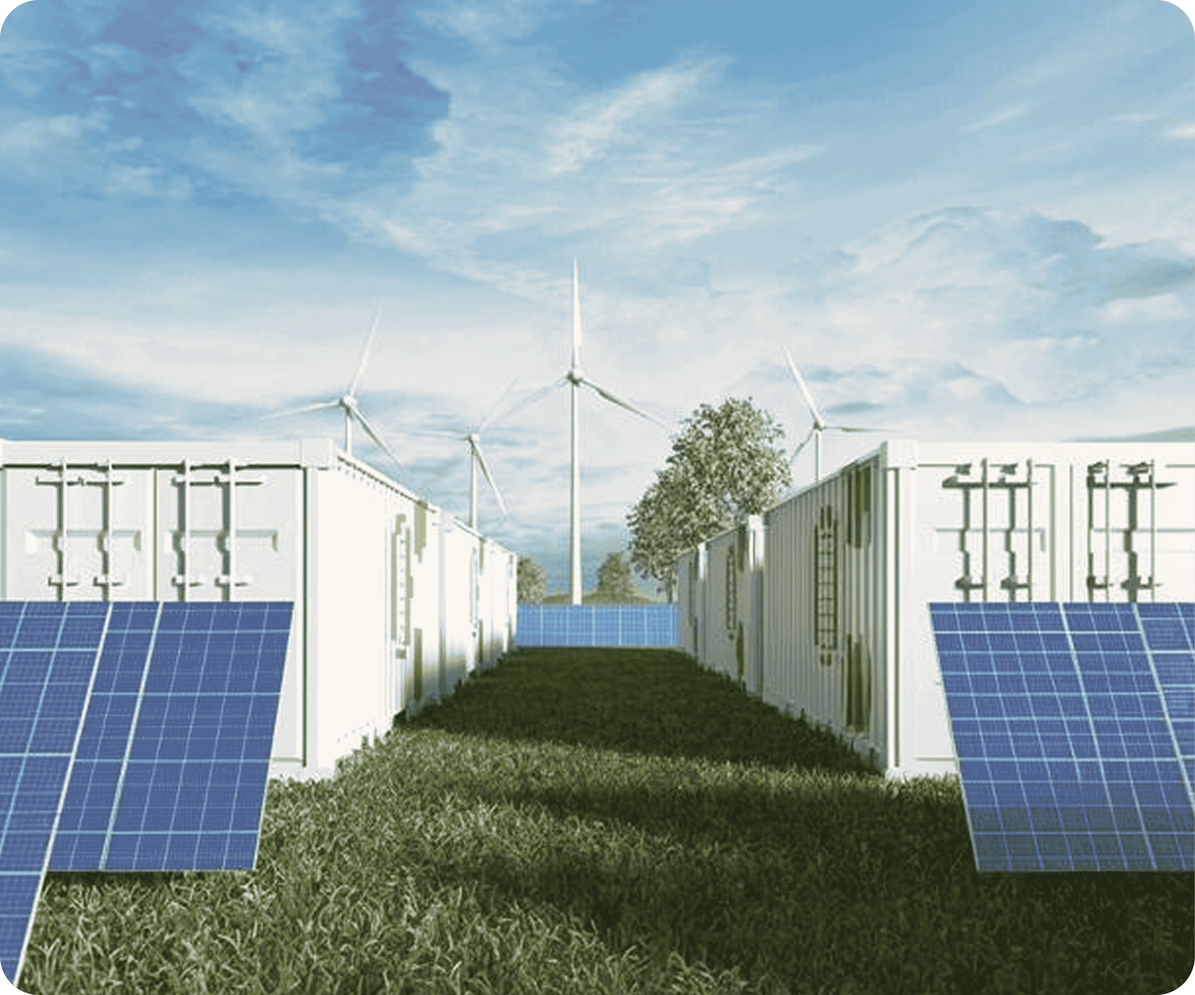
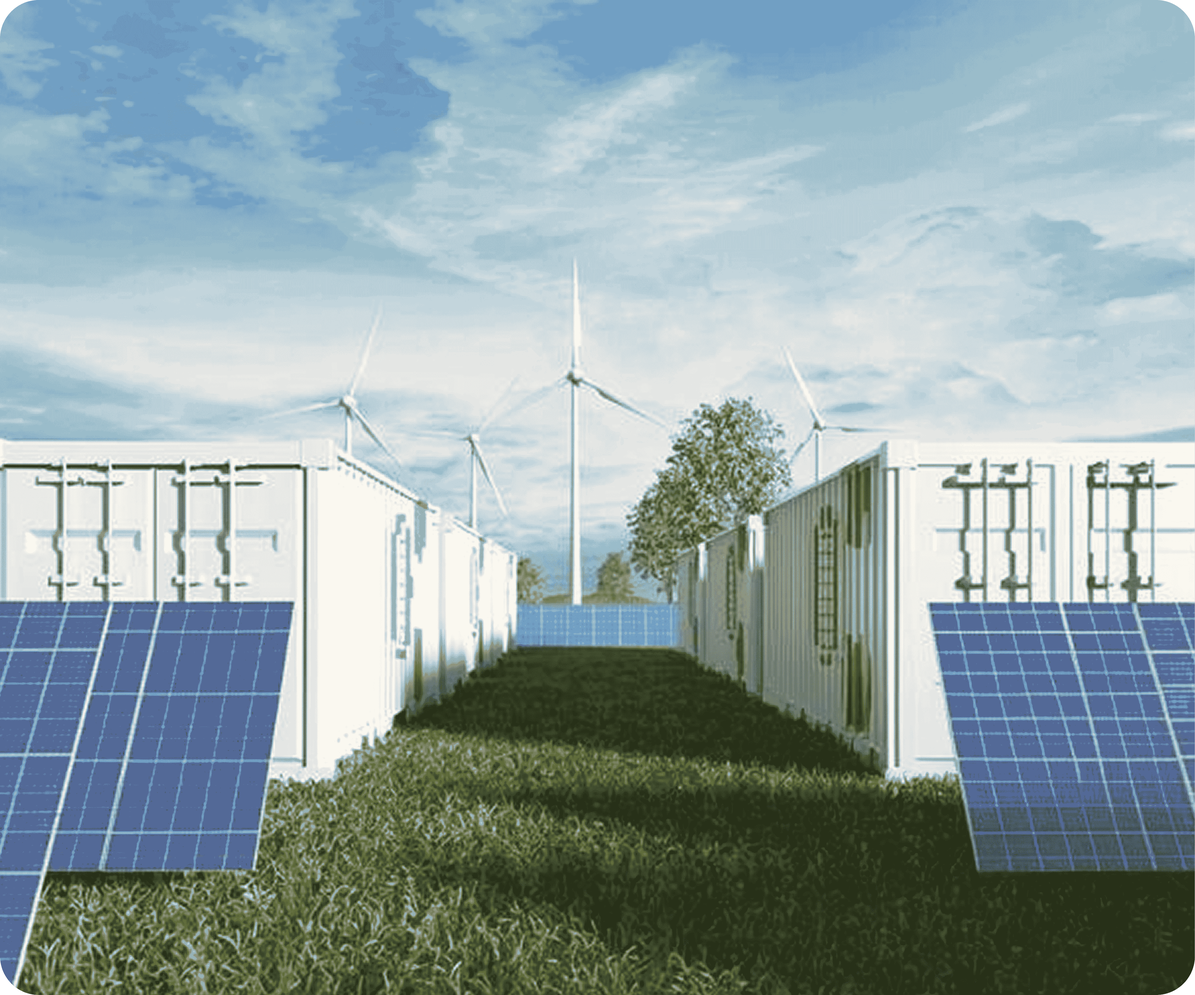
Enhance GetStarted form with additional subject and message fields; add solar-container image and update energy-storage image

diff --git a/src/pages/GetStarted.tsx b/src/pages/GetStarted.tsx
@@ -26,10 +26,13 @@ const GetStarted = () => {
     facilityType: '',
     sourcesCount: '',
     sourcesOfEnergy: '',
-    averageCost: ''
+    averageCost: '',
+    subject: '',
+    message: ''
   })
   const [isSubmitting, setIsSubmitting] = useState(false)
   const [showSuccessDialog, setShowSuccessDialog] = useState(false)
+  const [successMessage, setSuccessMessage] = useState<string>('')
   const [error, setError] = useState<string | null>(null)
 
   const applications = [
@@ -60,33 +63,60 @@ const GetStarted = () => {
     if (error) setError(null)
   }
 
-  const mapUseCase = (application: string): string => {
-    if (application === 'Single Site') return 'single_site'
-    if (application === 'Multi Site') return 'multi_site'
-    return application.toLowerCase().replace(' ', '_')
-  }
-
   const handleSubmit = async (e: React.FormEvent) => {
     e.preventDefault()
     setError(null)
     setIsSubmitting(true)
 
     try {
-      // Map form data to API payload structure
-      const payload = {
-        name: formData.name.trim(),
-        email: formData.email.trim(),
-        phone_number: formData.phone.trim(),
-        location: formData.location.trim(),
-        use_case: mapUseCase(formData.application),
-        facility_type: formData.facilityType,
-        no_of_sources: formData.sourcesCount.trim() || "1",
-        sources_of_energy: formData.sourcesOfEnergy,
-        avg_energy_cost: formData.averageCost.replace(/[₦,]/g, '').trim(),
+      // Generate subject from application type
+      const subject = formData.application
+        ? `Inquiry about ${formData.application} ${formData.facilityType} Setup`
+        : 'Inquiry about services'
+
+      // Generate message from form details
+      const messageParts = []
+      if (formData.application) {
+        messageParts.push(`Application Type: ${formData.application}`)
+      }
+      if (formData.facilityType) {
+        messageParts.push(`Facility Type: ${formData.facilityType}`)
+      }
+      if (formData.location) {
+        messageParts.push(`Location: ${formData.location}`)
+      }
+      if (formData.sourcesCount) {
+        messageParts.push(`Number of Sources: ${formData.sourcesCount}`)
+      }
+      if (formData.sourcesOfEnergy) {
+        messageParts.push(`Source of Energy: ${formData.sourcesOfEnergy}`)
+      }
+      if (formData.averageCost) {
+        messageParts.push(`Average Monthly Cost: ₦${formData.averageCost.replace(/[₦,]/g, '')}`)
+      }
+      if (formData.message) {
+        messageParts.push(`\nAdditional Information: ${formData.message}`)
       }
 
-      const response = await socialsClient.post('contact/', payload)
+      const message = messageParts.length > 0
+        ? messageParts.join('\n')
+        : 'I would like to know more about your services.'
+
+      // Map form data to API payload structure
+      const payload = {
+        full_name: formData.name.trim(),
+        email: formData.email.trim(),
+        phone_number: formData.phone.trim(),
+        subject: subject,
+        message: message,
+      }
+
+      const response = await socialsClient.post('contact-us/', payload)
       console.log('Success:', response.data)
+
+      // Store success message from API response
+      const apiMessage = response.data?.message || "Thanks for reaching out! We're thrilled to hear from you. Our representative will get in touch with you."
+      setSuccessMessage(apiMessage)
 
       // Show success dialog
       setShowSuccessDialog(true)
@@ -101,13 +131,16 @@ const GetStarted = () => {
         facilityType: '',
         sourcesCount: '',
         sourcesOfEnergy: '',
-        averageCost: ''
+        averageCost: '',
+        subject: '',
+        message: ''
       })
     } catch (err: unknown) {
       console.error('Error submitting form:', err)
       if (err && typeof err === 'object' && 'response' in err) {
-        const axiosError = err as { response?: { data?: { message?: string }; status?: number } }
-        const errorMessage = axiosError.response?.data?.message || `Server error: ${axiosError.response?.status || 'Unknown'}`
+        const axiosError = err as { response?: { data?: { message?: string; error?: string }; status?: number } }
+        // Handle both 'message' and 'error' fields in response
+        const errorMessage = axiosError.response?.data?.message || axiosError.response?.data?.error || `Server error: ${axiosError.response?.status || 'Unknown'}`
         setError(errorMessage)
       } else {
         setError(err instanceof Error ? err.message : 'Failed to submit form. Please try again.')
@@ -115,6 +148,16 @@ const GetStarted = () => {
     } finally {
       setIsSubmitting(false)
     }
+  }
+
+  // Handle textarea changes
+  const handleTextareaChange = (e: React.ChangeEvent<HTMLTextAreaElement>) => {
+    setFormData({
+      ...formData,
+      [e.target.name]: e.target.value
+    })
+    // Clear error when user starts typing
+    if (error) setError(null)
   }
 
   return (
@@ -312,6 +355,22 @@ const GetStarted = () => {
                 </div>
               </div>
 
+              {/* Additional Message */}
+              <div>
+                <Label htmlFor="message" className="text-heading mb-2 block">
+                  Additional Information (Optional)
+                </Label>
+                <textarea
+                  id="message"
+                  name="message"
+                  value={formData.message}
+                  onChange={handleTextareaChange}
+                  placeholder="Tell us more about your requirements..."
+                  rows={4}
+                  className="w-full px-3 py-2 bg-gray-50 border border-gray-200 rounded-lg text-heading focus:outline-none focus:ring-2 focus:ring-brandColor focus:border-transparent resize-none"
+                />
+              </div>
+
               {/* Error Message */}
               {error && (
                 <div className="p-4 bg-red-50 border border-red-200 rounded-lg">
@@ -344,7 +403,7 @@ const GetStarted = () => {
               Thank You
             </DialogTitle>
             <DialogDescription className="text-base text-gray-600 pt-2">
-              Thanks for reaching out! We're thrilled to hear from you. Our representative will get in touch with you.
+              {successMessage}
             </DialogDescription>
           </DialogHeader>
           <DialogFooter className="sm:justify-center">
